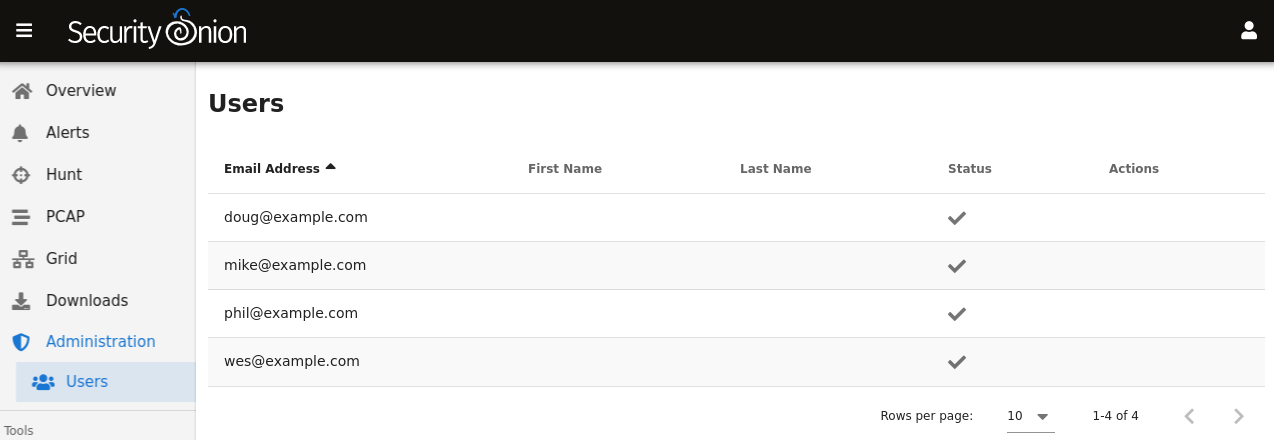
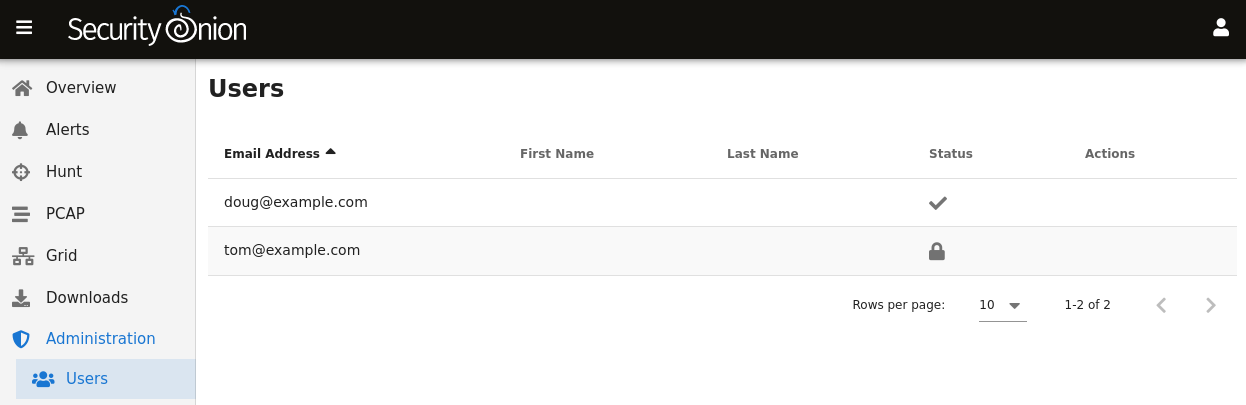
update administration

diff --git a/administration.rst b/administration.rst
@@ -7,3 +7,5 @@ Administration
 
 .. image:: images/users.png
   :target: _images/users.png
+
+Disabled user accounts are displayed with a lock in the Status column.
